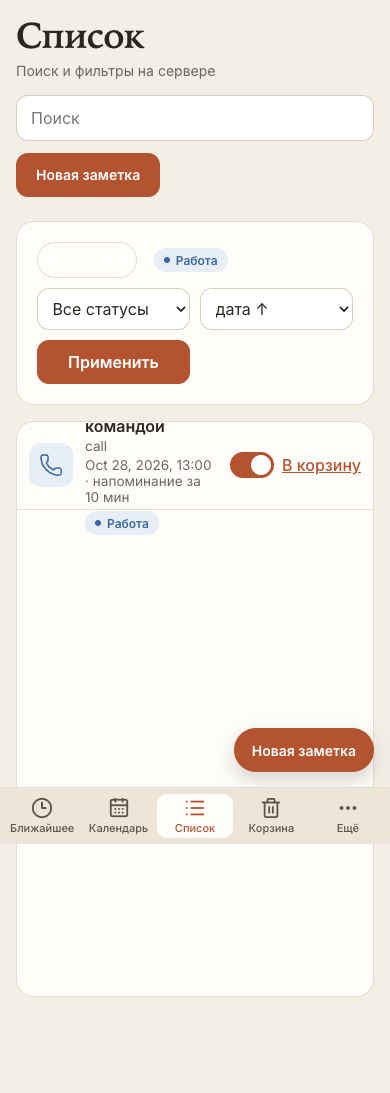
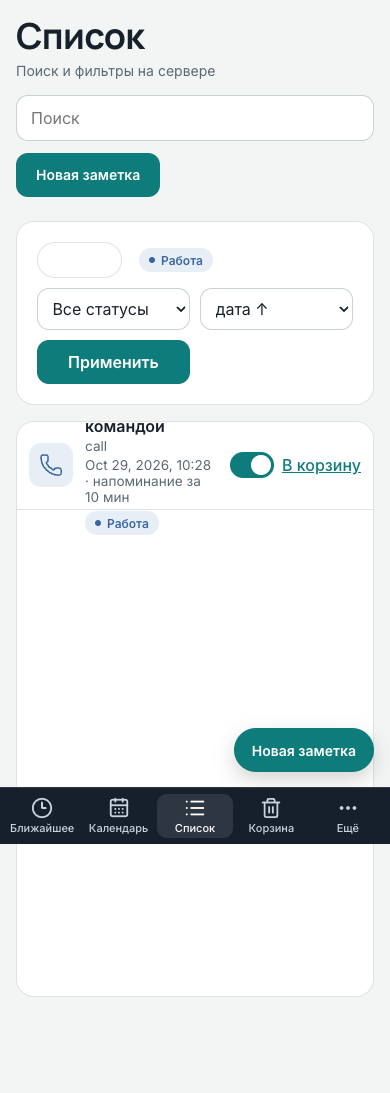
M7: STATUS M7.fix и обновлённые скрины экранов

diff --git a/STATUS.md b/STATUS.md
@@ -1,6 +1,6 @@
 # STATUS
 
-Обновляется в конце каждого этапа. Последнее обновление: 2026-10-28 18:01 +06.
+Обновляется в конце каждого этапа. Последнее обновление: 2026-10-29 15:28 +06.
 
 ## Этапы
 
@@ -14,6 +14,7 @@
 | M5 Повторы | готов | T9–T12 (`test_series_reminder_each_occurrence`, `test_split_series_keeps_past`, `test_override_single_occurrence`, `test_monthly_clamp` + DST); `make test` → 40 passed; `make e2e` → 9 passed; UI-смоки (см. ниже) |
 | M6 Нагрузка и verify | готов | A1–A3 (stale sending, Date, e2e hooks); T17 `perf_list_10k` / `perf_search_10k` / `e2e_scroll_10k`; `make seed`; `make verify` → T1–T21 все закрыто; отчёт `reports/verify-20261024-175604.md` |
 | M7 Новый интерфейс | готов | токены/шрифты/сайдбар; TagPill/`tagColors`/`NoteIllustration`/`pickIllustration`; календарь (slotEventOverlap, теги, trash-zone+Отменить); экраны Upcoming/List/Tags/Trash/Settings; mobile ≤640; bell+WebAudio; `make test` 46; `make e2e` 23; скрины `docs/design/screens/` |
+| M7.fix Правки после живой проверки | готов | термин «тег»; тёмная панель/бирюза/Manrope; сайдбар pin+popover; luxon timeZone (D-049); e2e slot/sidebar/popover; `make test` 46; `make e2e` 26; скрины обновлены |
 
 ## Работает
 - `docker compose up --build` поднимает postgres, mailhog, api, worker, web.
@@ -169,6 +170,13 @@
 - Скрины: `docs/design/screens/*-{1280,390}.png` (+ `mobile-sheet-390.png`).
 
 **Вручную в браузере (localhost:5173):** см. отчёт этапа в чате (тег в календаре/списке/«Ближайшем», drag в корзину и «Отменить»).
+
+### Смоки M7.fix (2026-10-29)
+**Автоматически:**
+- `make test` → 46 passed.
+- `make e2e` → 26 passed (+ `e2e_calendar_slot_matches_label_timezone`, `e2e_sidebar_fits_viewport`, `e2e_notifications_popover`).
+- Заметка `starts_at=2026-10-29T05:41:00Z` при `Asia/Bishkek`: подпись **11:41**, позиция в полосе слота **11:00–12:00** (не 05:00) — D-049 / luxon.
+- Скрины обновлены: `docs/design/screens/*-{1280,390}.png`.
 
 ## Следующий заход
 - Web Push / Service Worker.
